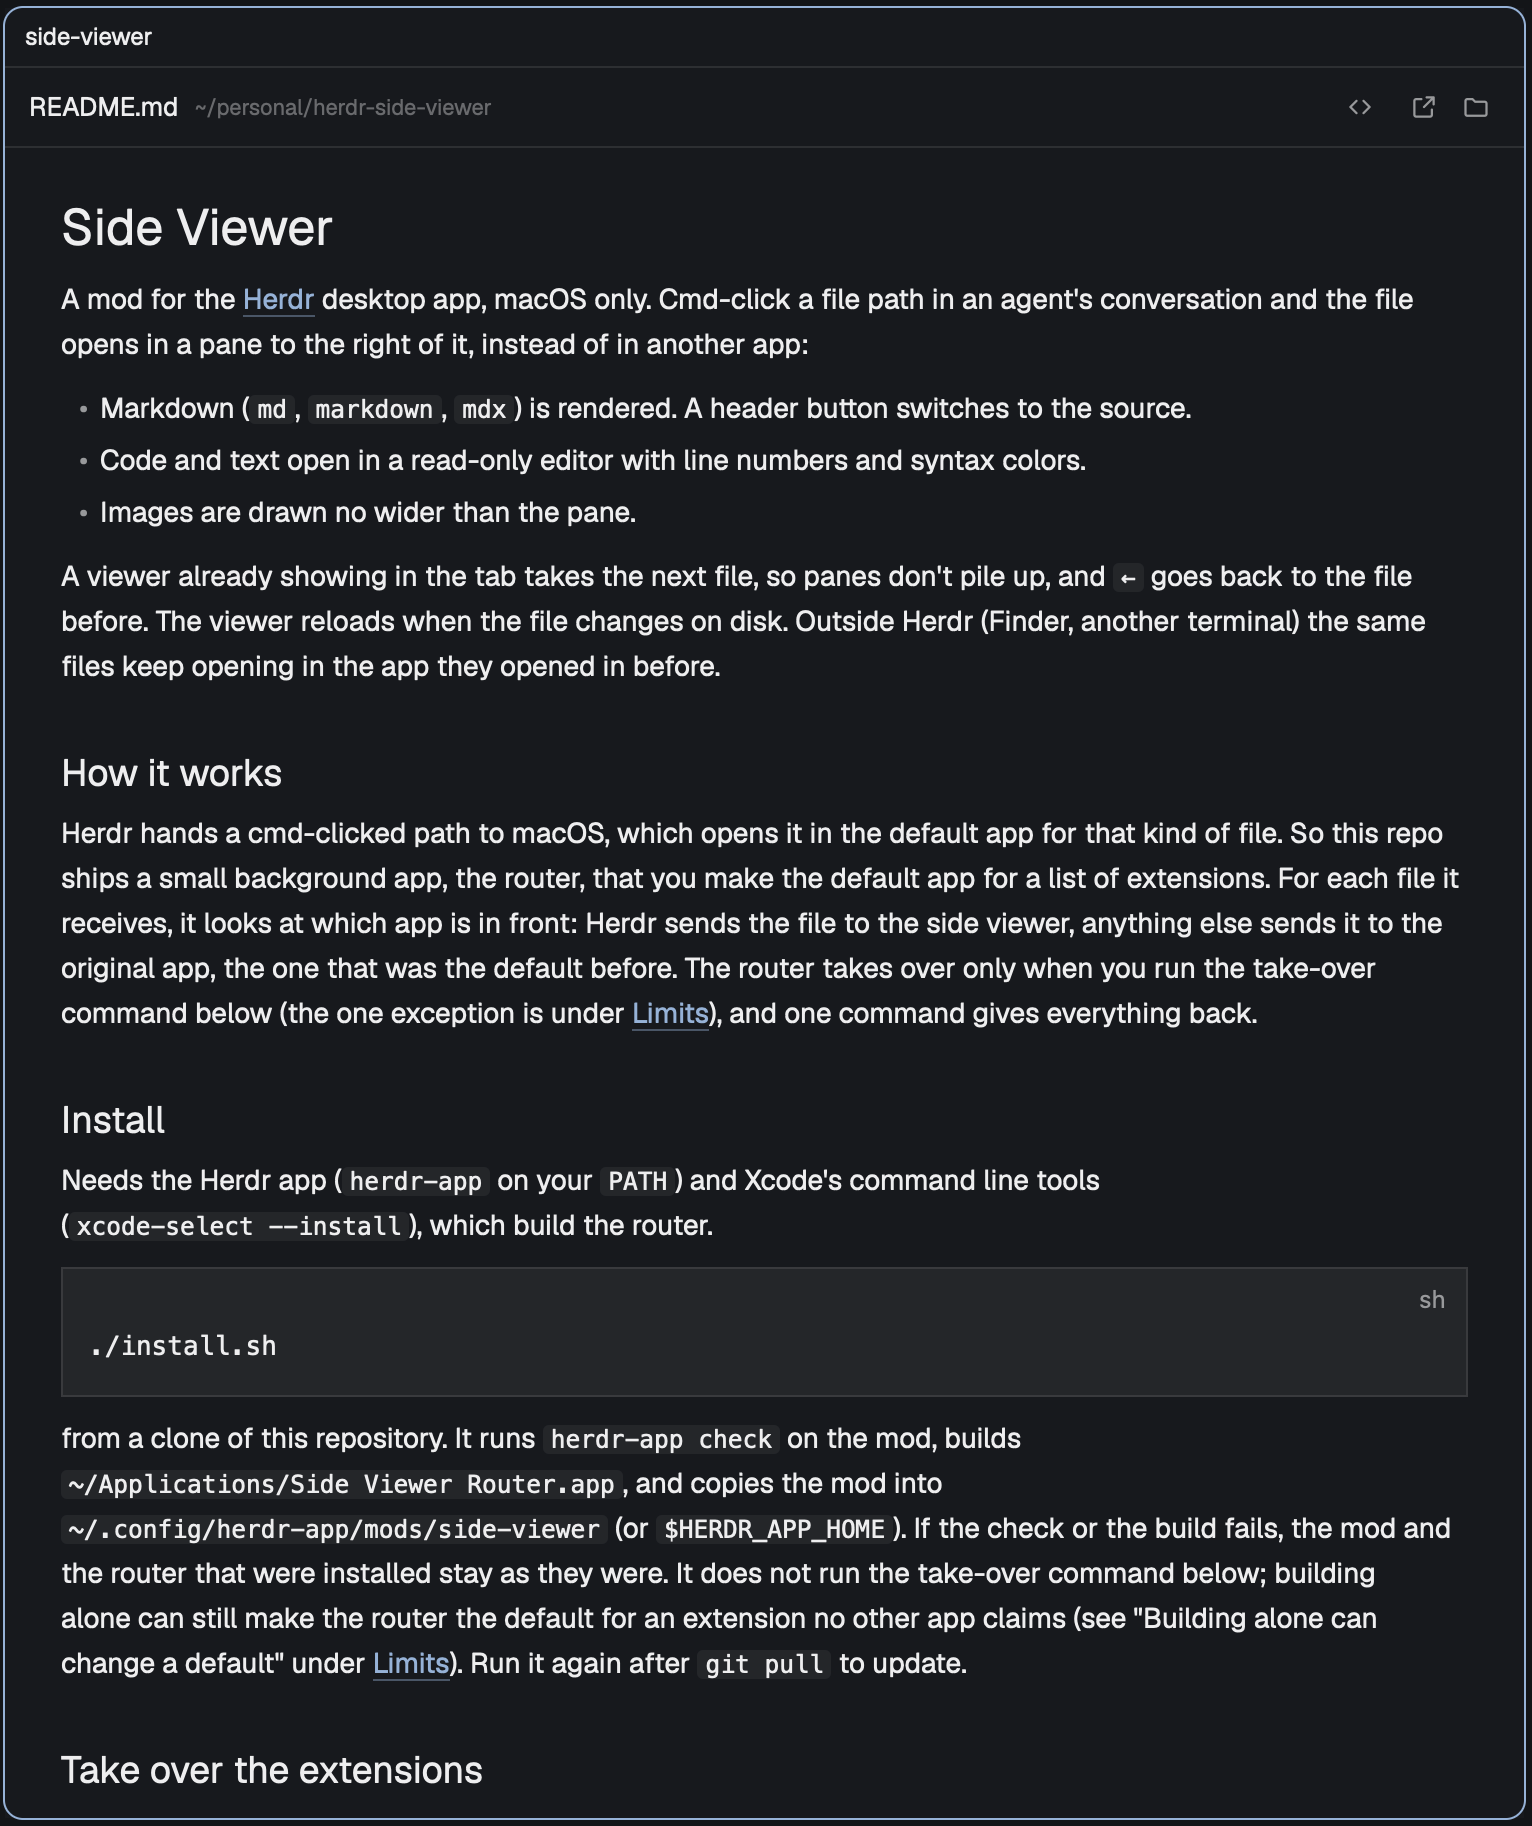
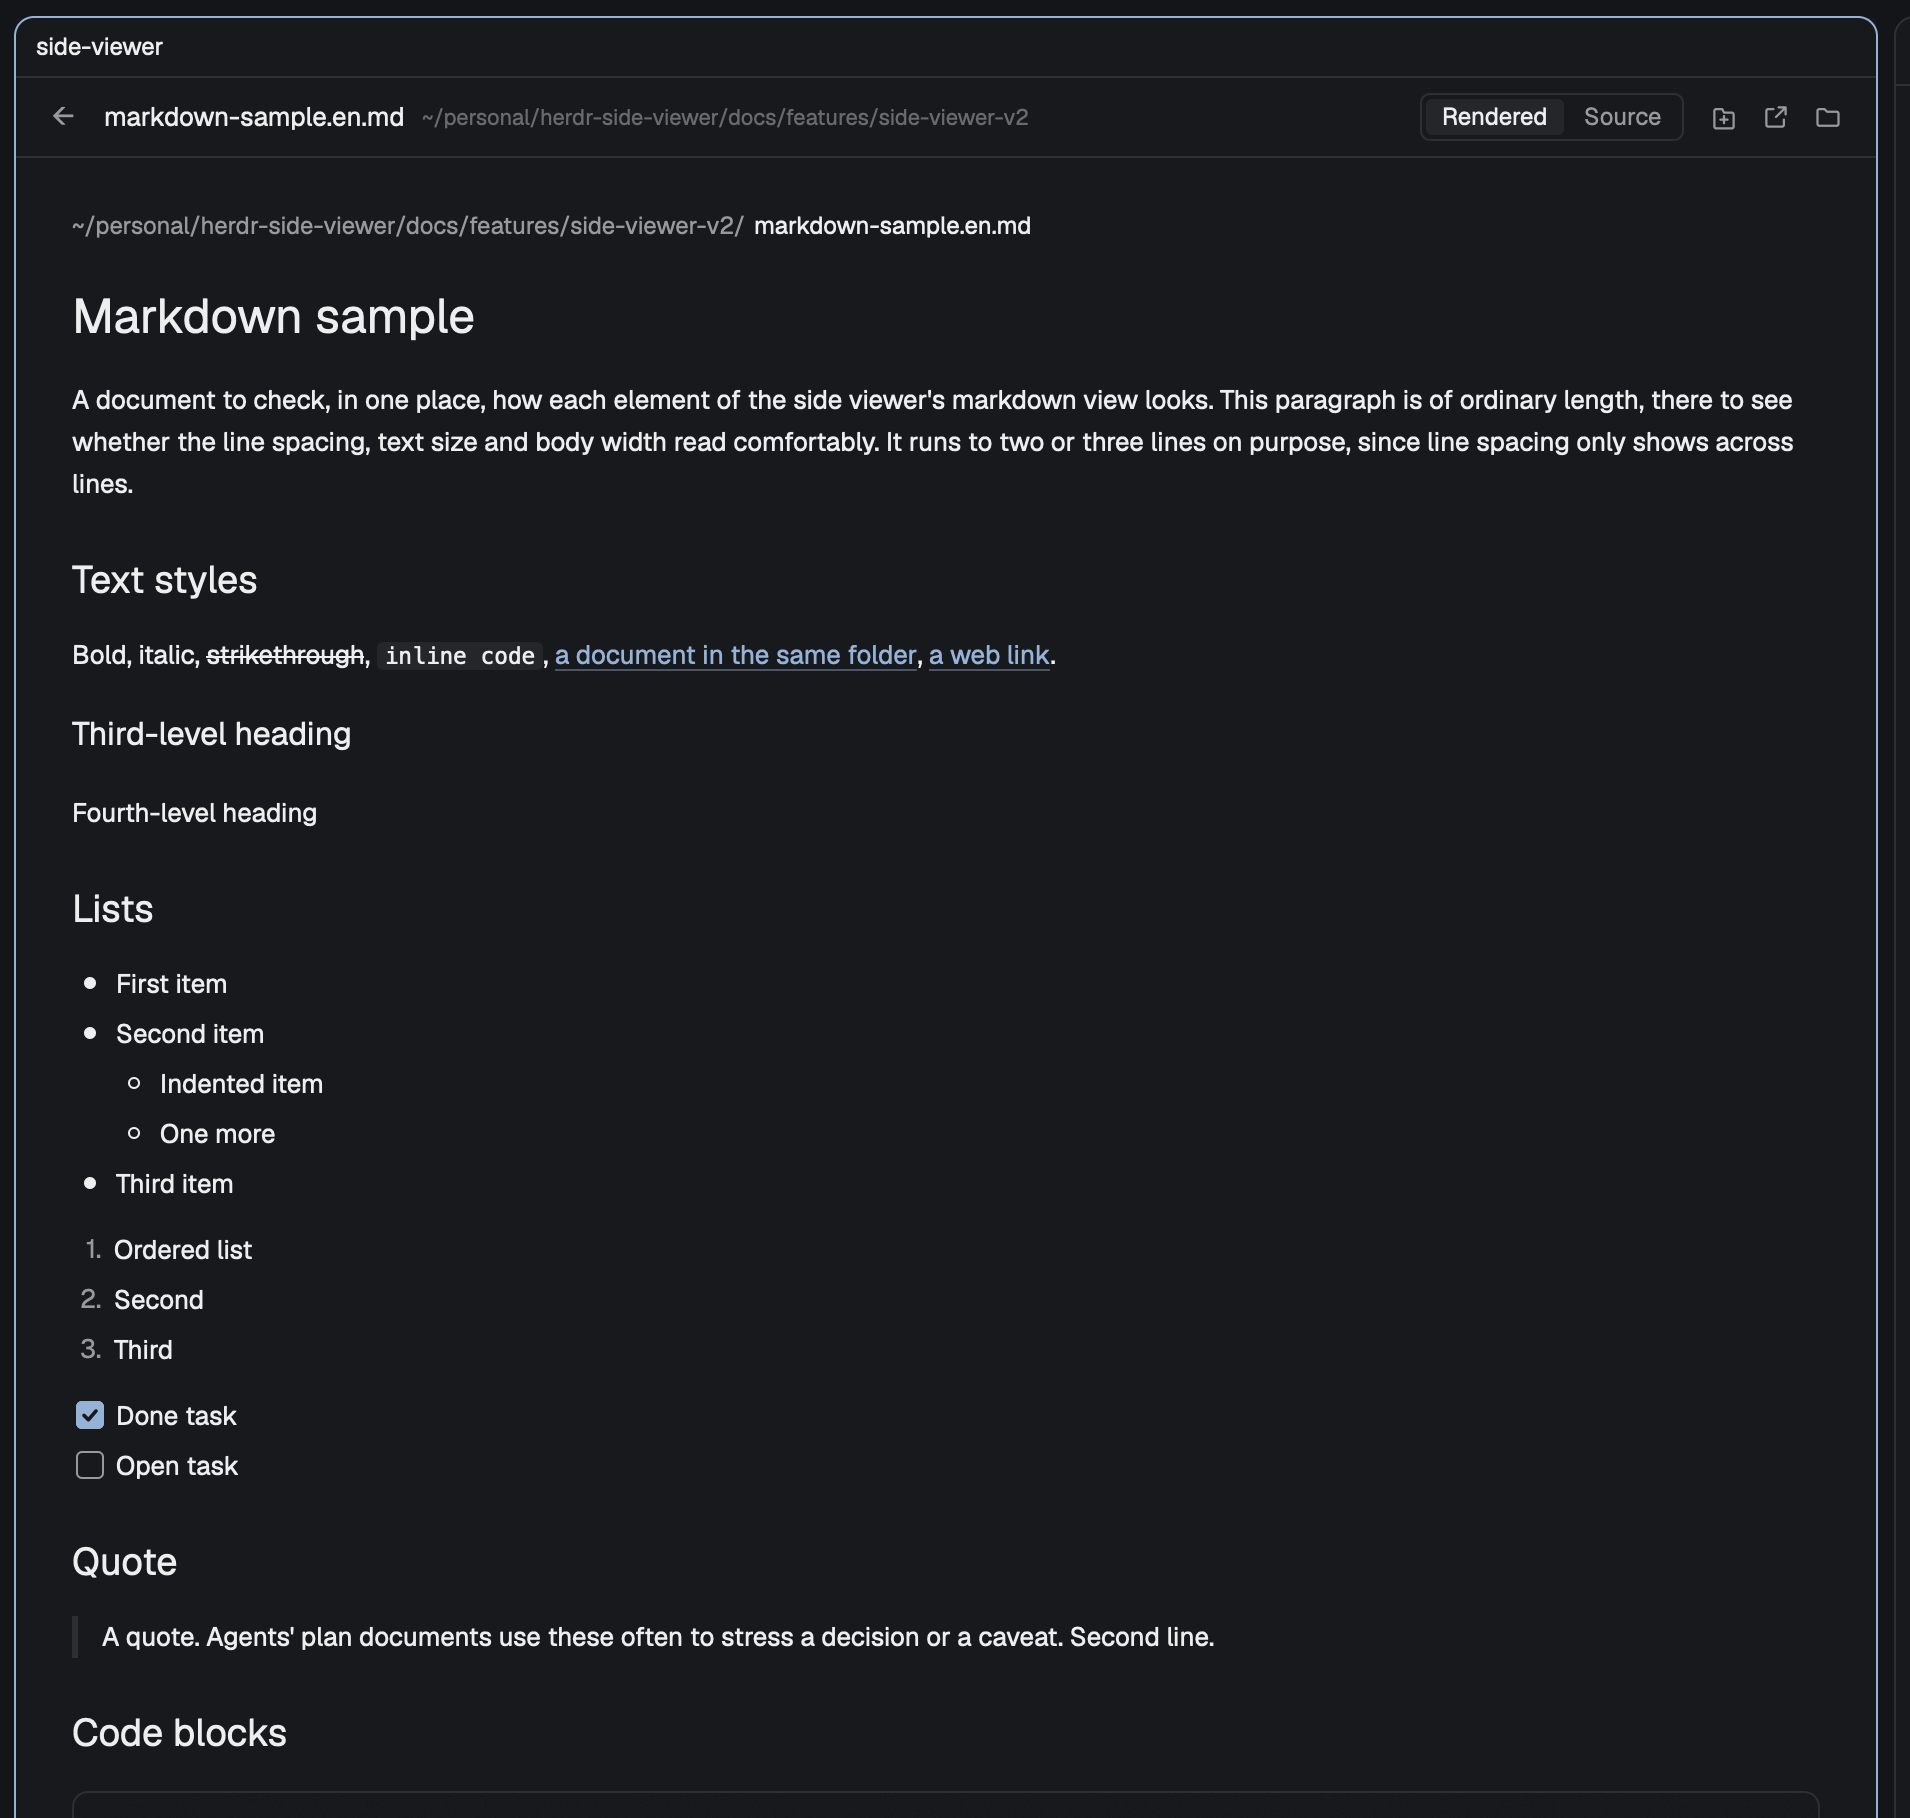
docs: v2 미리보기 그림을 영어(preview.png)·한국어(preview.ko.png) 화면으로 바꾸고 영어 마크다운 샘플을 더한다 (AC-23)

diff --git a/docs/features/side-viewer-v2/markdown-sample.en.md b/docs/features/side-viewer-v2/markdown-sample.en.md
@@ -1,0 +1,70 @@
+# Markdown sample
+
+A document to check, in one place, how each element of the side viewer's markdown view looks. This paragraph is of ordinary length, there to see whether the line spacing, text size and body width read comfortably. It runs to two or three lines on purpose, since line spacing only shows across lines.
+
+## Text styles
+
+**Bold**, *italic*, ~~strikethrough~~, `inline code`, [a document in the same folder](../side-viewer/spec.md), [a web link](https://herdr.dev).
+
+### Third-level heading
+
+#### Fourth-level heading
+
+## Lists
+
+- First item
+- Second item
+  - Indented item
+  - One more
+- Third item
+
+1. Ordered list
+2. Second
+3. Third
+
+- [x] Done task
+- [ ] Open task
+
+## Quote
+
+> A quote. Agents' plan documents use these often to stress a decision or a caveat.
+> Second line.
+
+## Code blocks
+
+```js
+// A code block with its language
+export function greet(name) {
+  return `hello, ${name}`;
+}
+```
+
+```sh
+node --test mods/side-viewer/
+herdr-app check mods/side-viewer
+```
+
+```
+A code block without a language
+```
+
+## Table
+
+| Item | Left aligned | Centered | Right |
+|---|:---|:---:|---:|
+| First | Short | Middle | 1 |
+| Second | A cell with somewhat longer content | Middle | 1,234 |
+
+## Rule
+
+---
+
+## Image in the body
+
+![The repository's preview picture](../../../preview.png)
+
+## Footnotes
+
+A sentence with a footnote.[^1]
+
+[^1]: The footnote's text.
